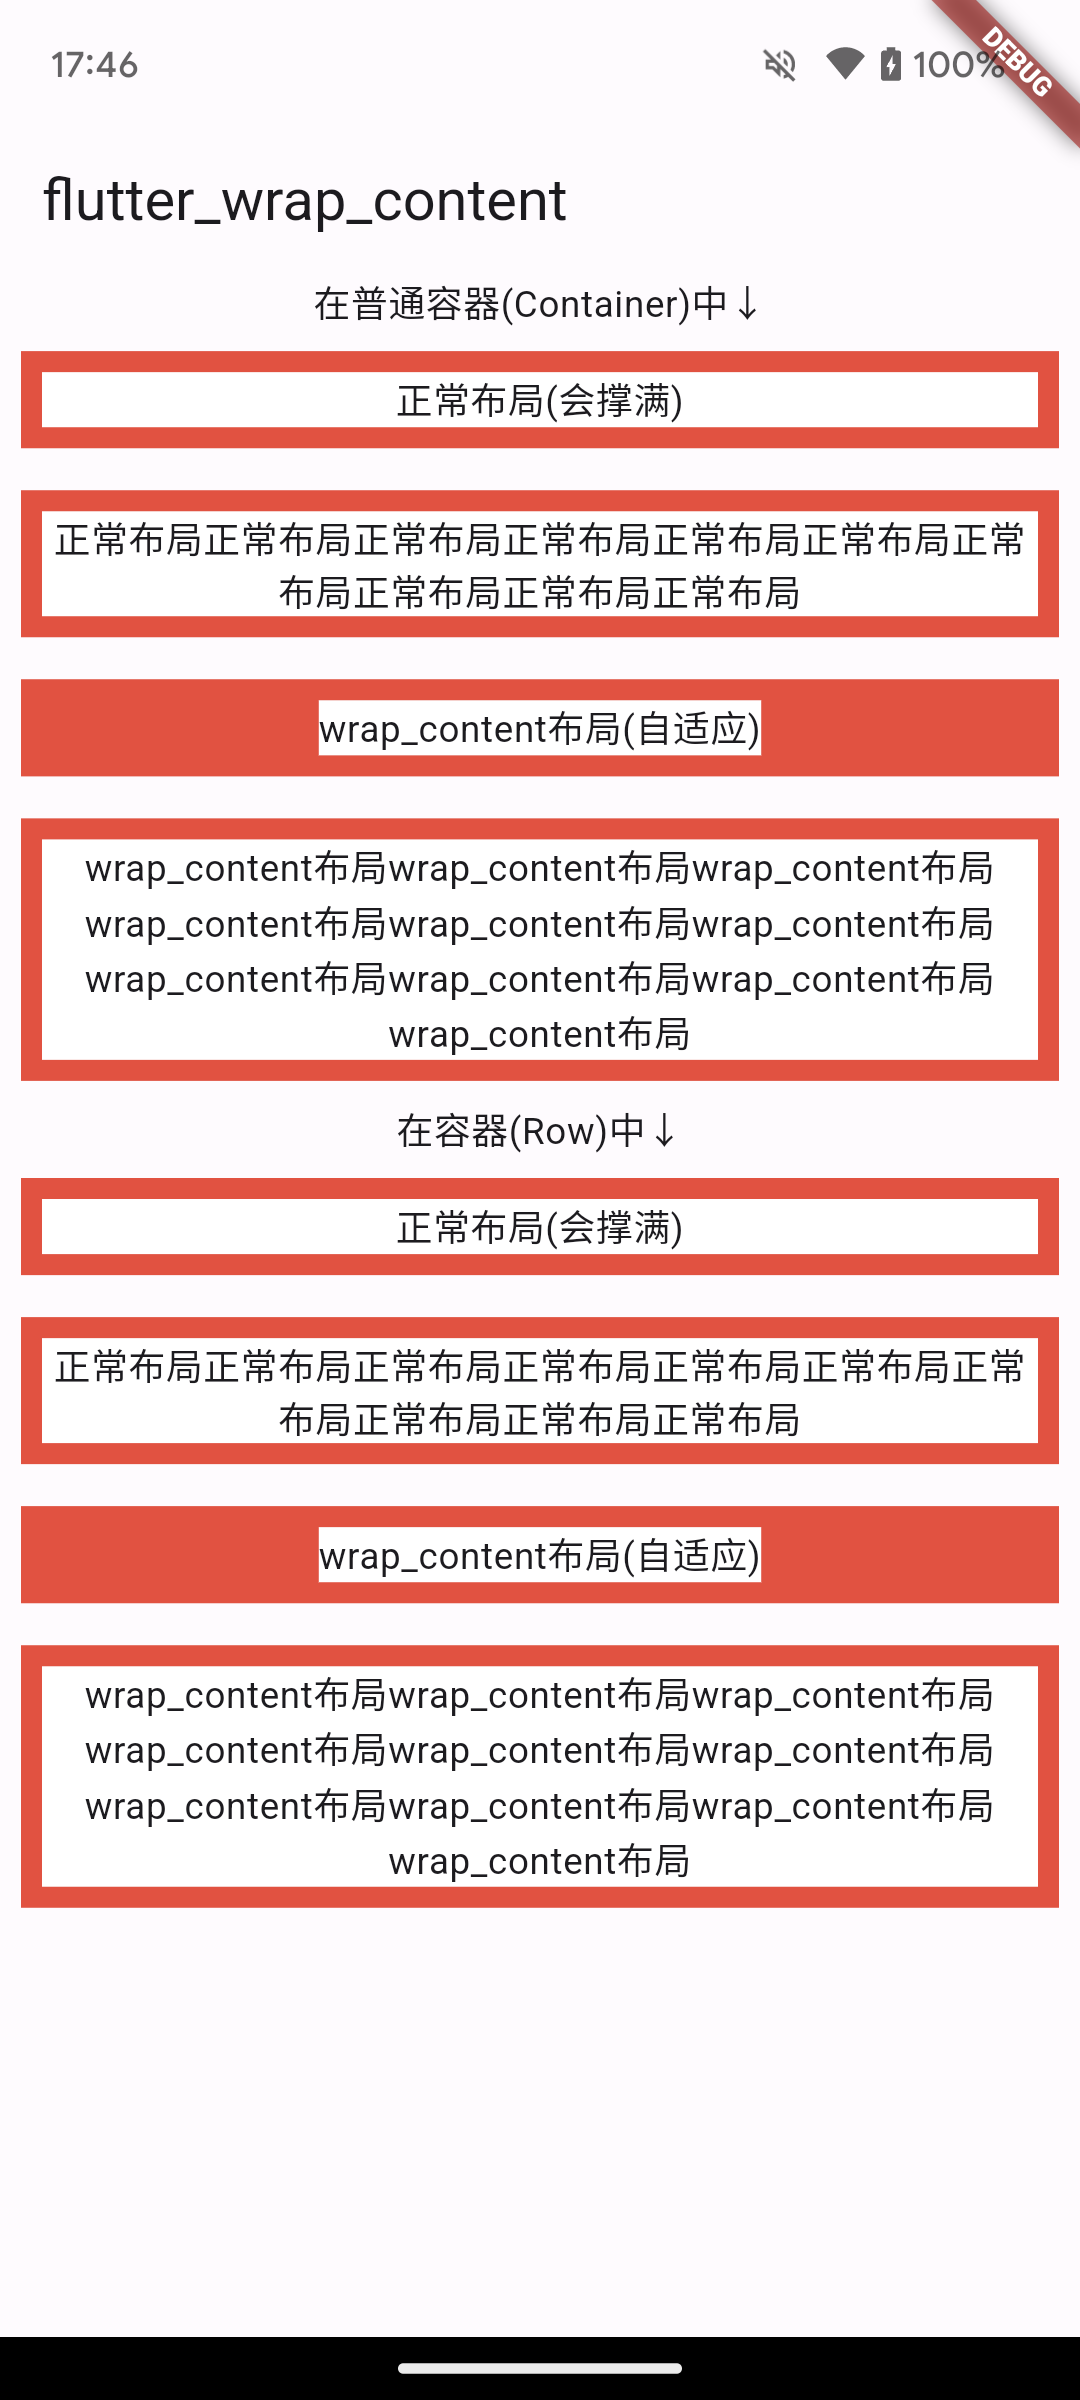
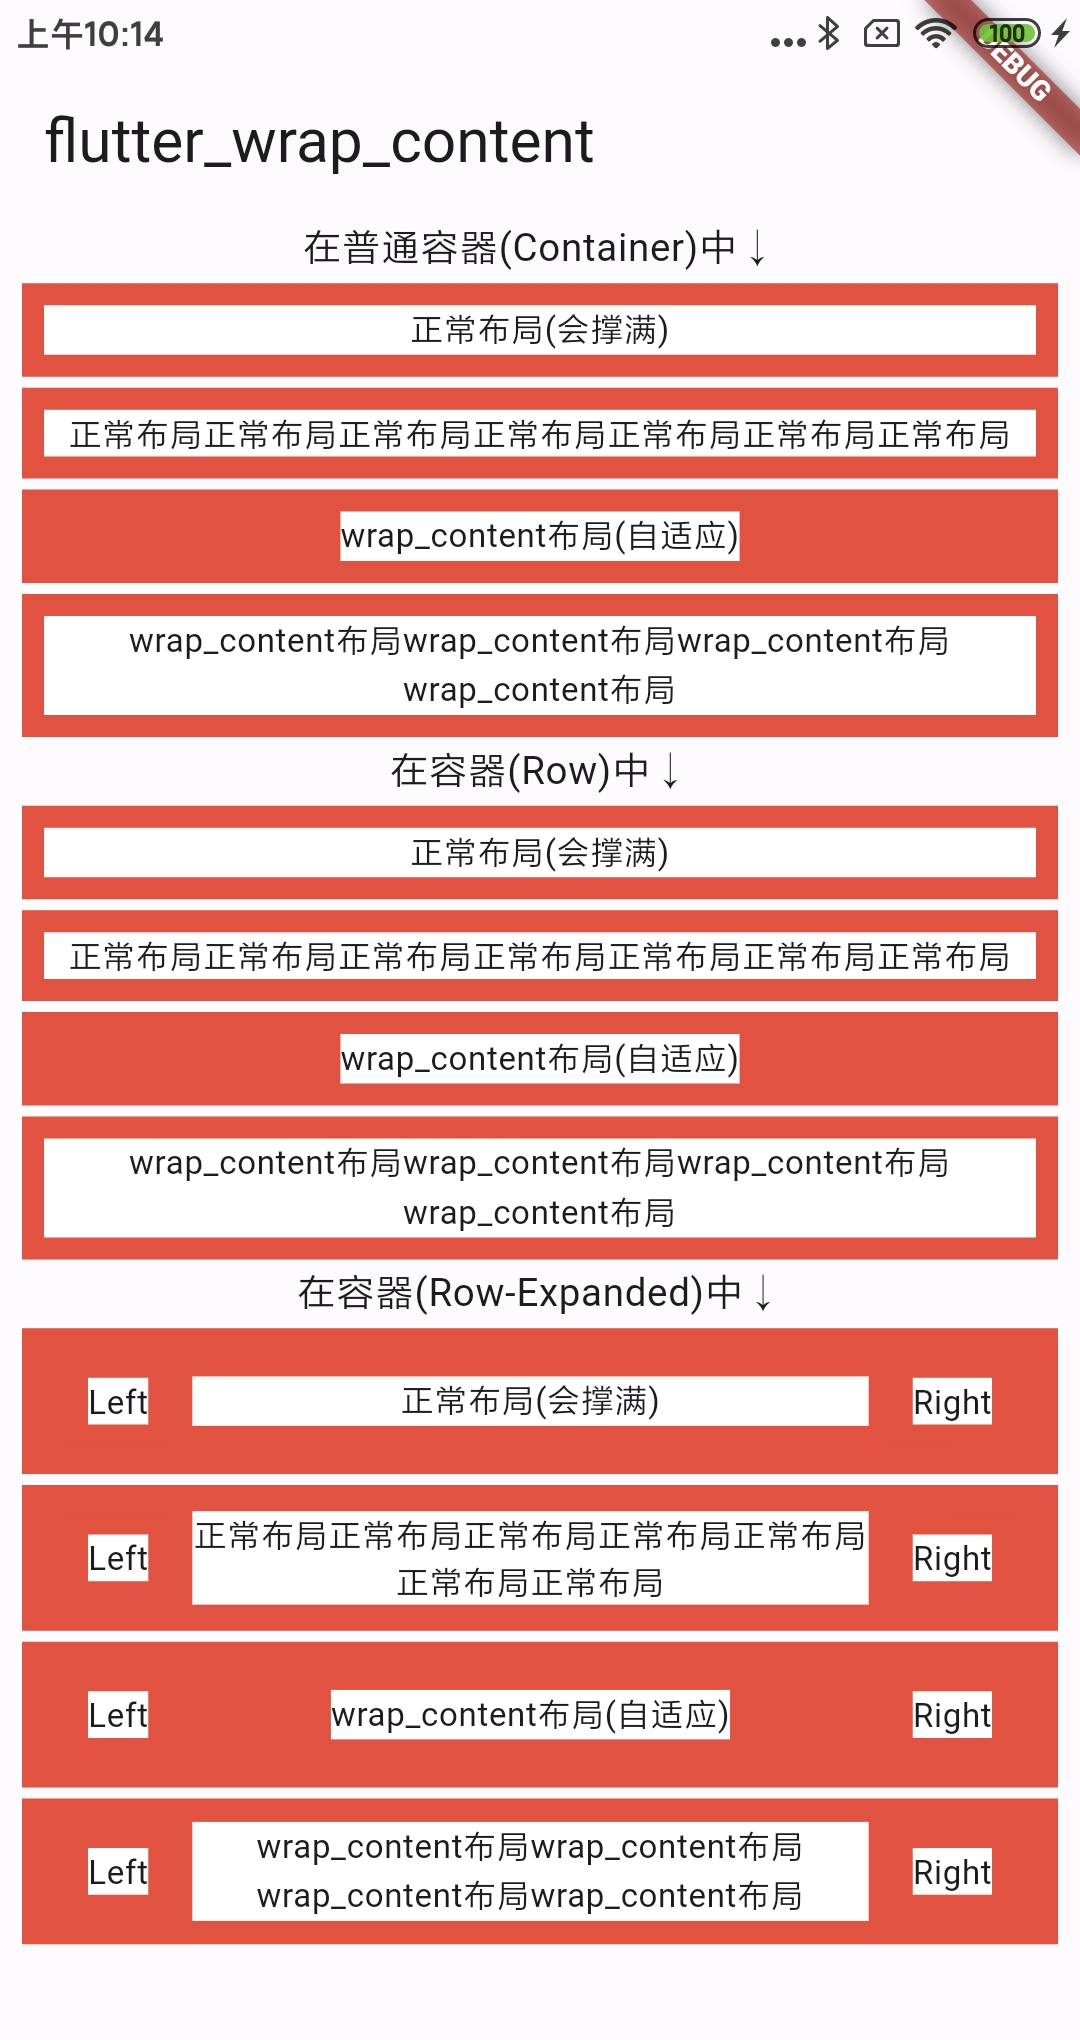
* fix demo

diff --git a/example/lib/main.dart b/example/lib/main.dart
@@ -10,7 +10,7 @@ class MainApp extends StatelessWidget {
 
   Widget container(Widget child) => Container(
         color: Colors.red,
-        margin: const EdgeInsets.all(8),
+        margin: const EdgeInsets.symmetric(vertical: 2, horizontal: 8),
         padding: const EdgeInsets.all(8),
         child: child,
       );
@@ -23,13 +23,17 @@ class MainApp extends StatelessWidget {
         color: color,
         child: Text(
           text,
+          style: const TextStyle(
+            fontSize: 12,
+          ),
           textAlign: TextAlign.center,
         ),
       );
 
   @override
   Widget build(BuildContext context) {
-    var m = 10;
+    var m = 7;
+    var wm = 4;
     return MaterialApp(
       home: Scaffold(
         appBar: AppBar(
@@ -60,7 +64,7 @@ class MainApp extends StatelessWidget {
             ),
             SliverToBoxAdapter(
               child: container(
-                textWidget(text: "wrap_content布局" * m).wrapContent(),
+                textWidget(text: "wrap_content布局" * wm).wrapContent(),
               ),
             ),
             const SliverToBoxAdapter(
@@ -99,8 +103,62 @@ class MainApp extends StatelessWidget {
                 Row(
                   children: [
                     Expanded(
-                        child: textWidget(text: "wrap_content布局" * m)
+                        child: textWidget(text: "wrap_content布局" * wm)
                             .wrapContent())
+                  ],
+                ),
+              ),
+            ),
+            const SliverToBoxAdapter(
+              child: Text(
+                "在容器(Row-Expanded)中↓",
+                textAlign: TextAlign.center,
+              ),
+            ),
+            SliverToBoxAdapter(
+              child: container(
+                Row(
+                  children: [
+                    container(textWidget(text: "Left")),
+                    Expanded(child: textWidget(text: "正常布局(会撑满)")),
+                    container(textWidget(text: "Right")),
+                  ],
+                ),
+              ),
+            ),
+            SliverToBoxAdapter(
+              child: container(
+                Row(
+                  children: [
+                    container(textWidget(text: "Left")),
+                    Expanded(child: textWidget(text: "正常布局" * m)),
+                    container(textWidget(text: "Right")),
+                  ],
+                ),
+              ),
+            ),
+            SliverToBoxAdapter(
+              child: container(
+                Row(
+                  children: [
+                    container(textWidget(text: "Left")),
+                    Expanded(
+                        child: textWidget(text: "wrap_content布局(自适应)")
+                            .wrapContent()),
+                    container(textWidget(text: "Right")),
+                  ],
+                ),
+              ),
+            ),
+            SliverToBoxAdapter(
+              child: container(
+                Row(
+                  children: [
+                    container(textWidget(text: "Left")),
+                    Expanded(
+                        child: textWidget(text: "wrap_content布局" * wm)
+                            .wrapContent()),
+                    container(textWidget(text: "Right")),
                   ],
                 ),
               ),
